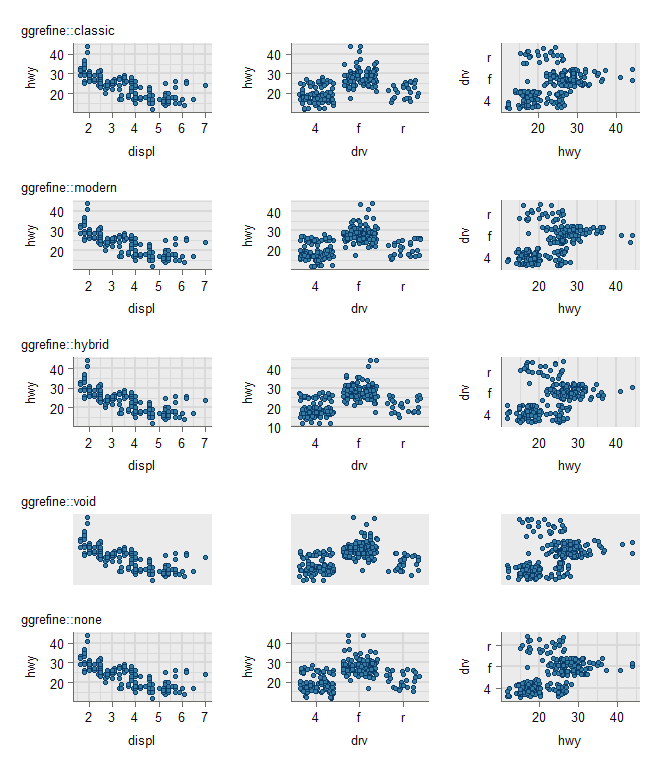
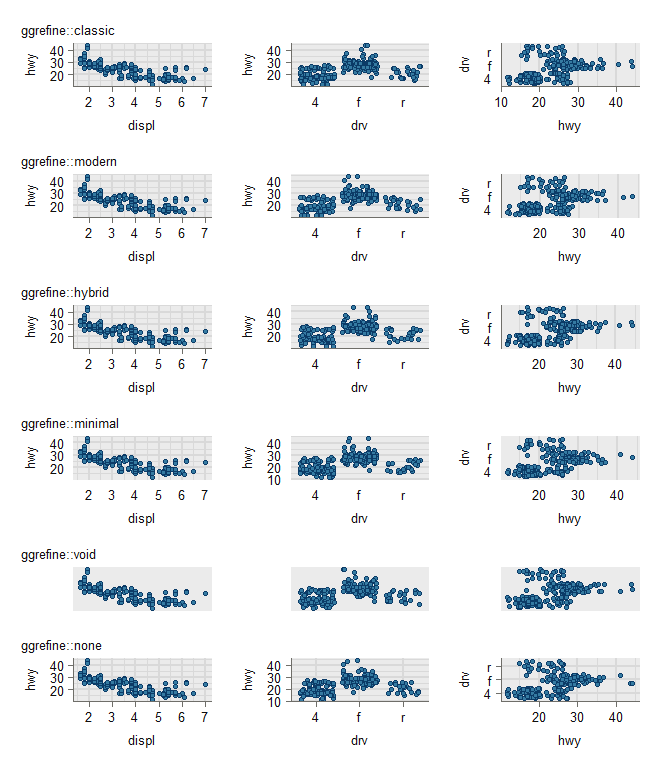
Update

diff --git a/README.md b/README.md
@@ -80,15 +80,15 @@ set_theme(new = ggrefine::theme_grey())
 
 p_continuous <- mpg |>
   ggplot(aes(x = displ, y = hwy)) +
-  geom_point(shape = 21, colour = blends::multiply(get_theme()$geom@fill))
+  geom_point(shape = 21, colour = blends::multiply("#357BA2FF"))
 
 p_discrete_x <- mpg |>
   ggplot(aes(x = drv, y = hwy)) +
-  geom_jitter(shape = 21, colour = blends::multiply(get_theme()$geom@fill))
+  geom_jitter(shape = 21, colour = blends::multiply("#357BA2FF"))
 
 p_discrete_y <- mpg |>
   ggplot(aes(x = hwy, y = drv)) +
-  geom_jitter(shape = 21, colour = blends::multiply(get_theme()$geom@fill)) 
+  geom_jitter(shape = 21, colour = blends::multiply("#357BA2FF"))
 
 patchwork::wrap_plots(
   p_continuous + ggrefine::classic() + labs(title = "ggrefine::classic"),
@@ -100,6 +100,9 @@ patchwork::wrap_plots(
   p_continuous + ggrefine::hybrid() + labs(title = "ggrefine::hybrid"),
   p_discrete_x + ggrefine::hybrid(x_type = "discrete"),
   p_discrete_y + ggrefine::hybrid(y_type = "discrete"),
+  p_continuous + ggrefine::minimal() + labs(title = "ggrefine::minimal"),
+  p_discrete_x + ggrefine::minimal(x_type = "discrete"),
+  p_discrete_y + ggrefine::minimal(y_type = "discrete"),
   p_continuous + ggrefine::void() + labs(title = "ggrefine::void"),
   p_discrete_x + ggrefine::void(x_type = "discrete"),
   p_discrete_y + ggrefine::void(y_type = "discrete"),

diff --git a/NEWS.md b/NEWS.md
@@ -2,6 +2,7 @@
 
 * Removed `refine_` prefixes from refine functions.
 * Renamed `fusion` to `hybrid`.
+* Affrf `minimal`.
 * Change panel grey in `theme_grey` to "grey92".
 * Added `theme_oat` back in.
 